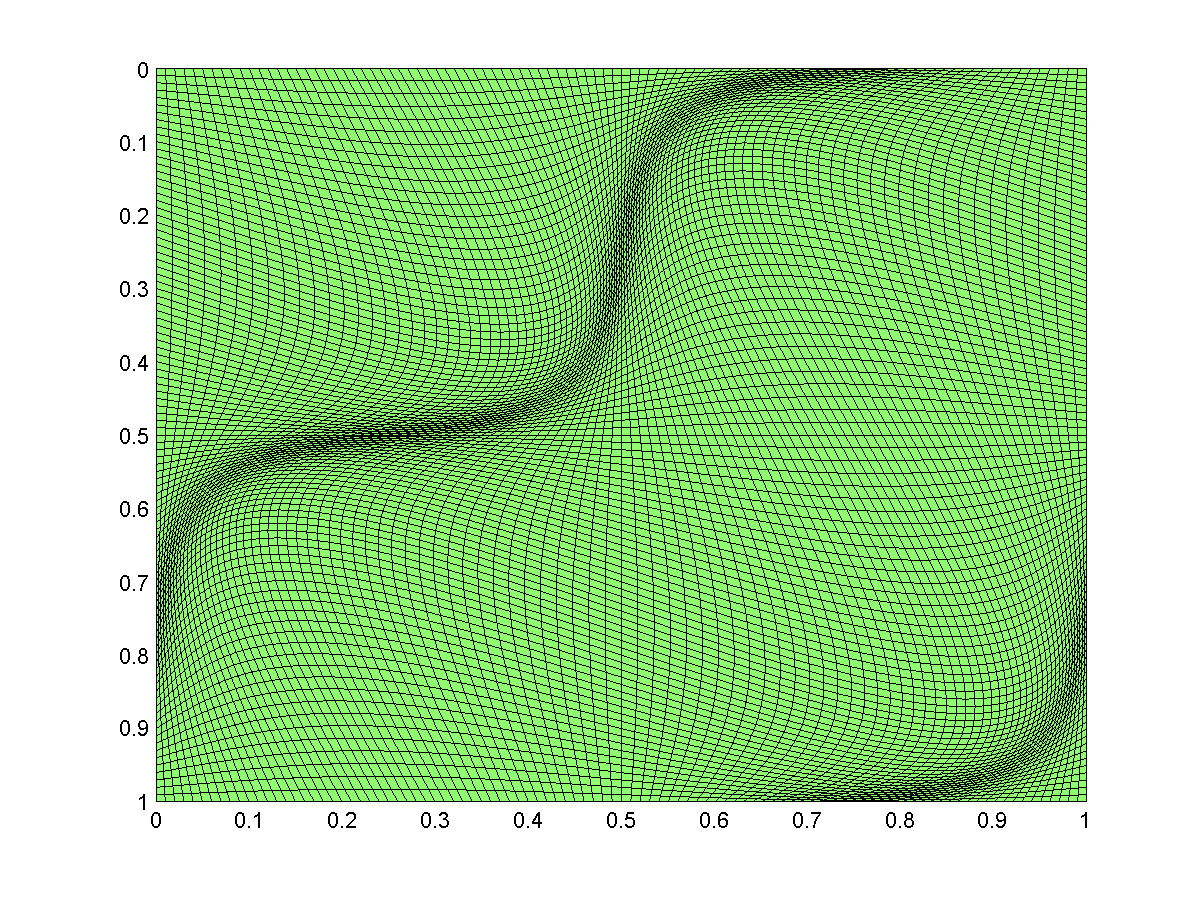
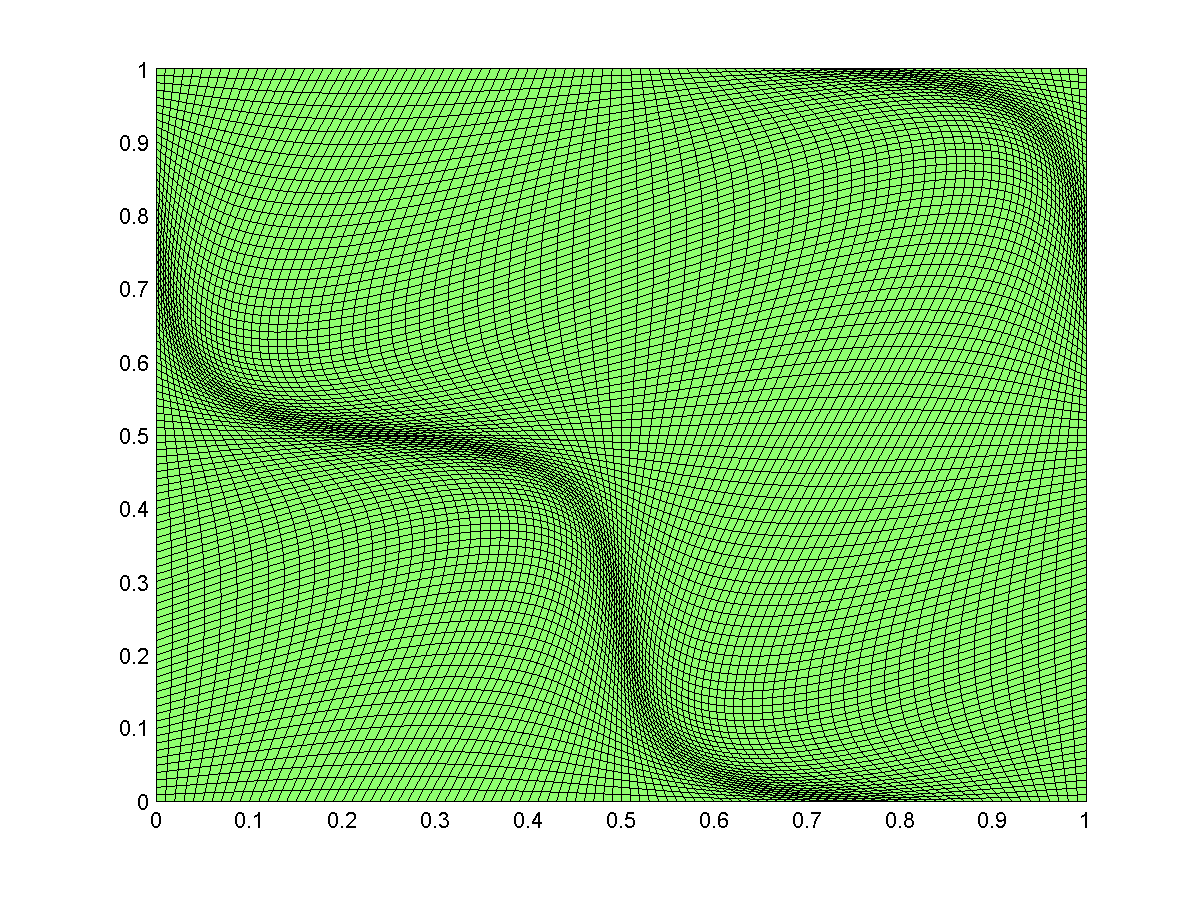
output smooth quad mesh

Changed region(s): [[0.1233, 0.0622, 0.925, 0.9022]]

diff --git a/small_codes/smooth_quad_mesh.m b/small_codes/smooth_quad_mesh.m
@@ -1,4 +1,4 @@
-clear ll; close all; clc
+clear all; close all; clc
 
 L=1;
 n=100;
@@ -18,21 +18,21 @@ end
 
 figure(1)
 surf(x,y,ones(n+1,n+1))
-view(0,-90)
+view(0,90)
 
 
 figure(1)
 surf(x,y,ones(n+1,n+1))
-view(0,-90)
+view(0,90)
 
 output_file1=strcat('.\figs\smooth_quad_mesh_L',int2str(L),'_n',int2str(n));
 print('-dpdf',strcat(output_file1,'.pdf'));
 print('-dpng',strcat(output_file1,'.png'));
 
 %
-close all;
-matID=1;
-srcID=1;
+% close all;
+matID=0;
+srcID=0;
 %%%%%%%%%%%%%%%%%%%%%
 output_file1=strcat(output_file1,'.txt')
 fid=fopen(output_file1,'w');
